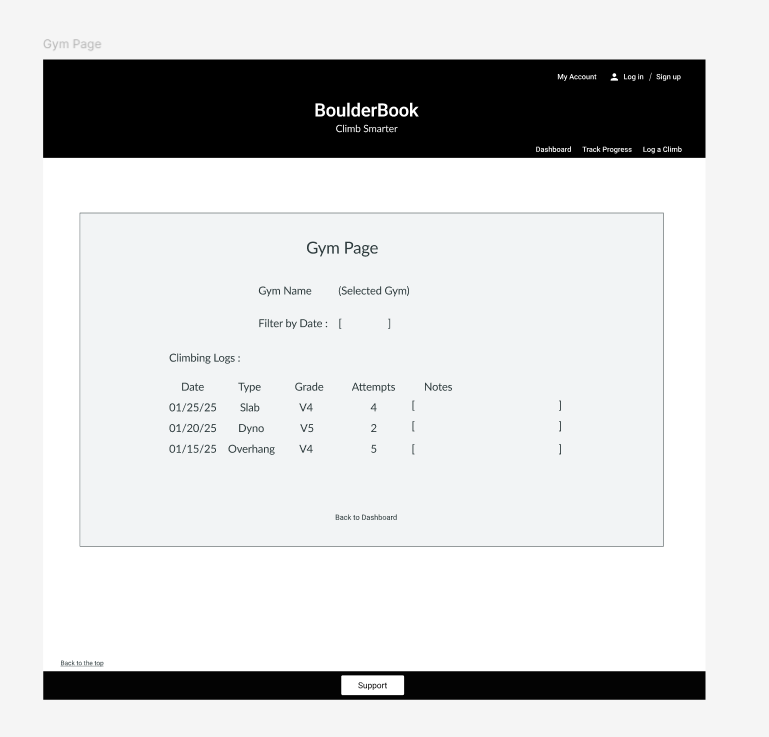
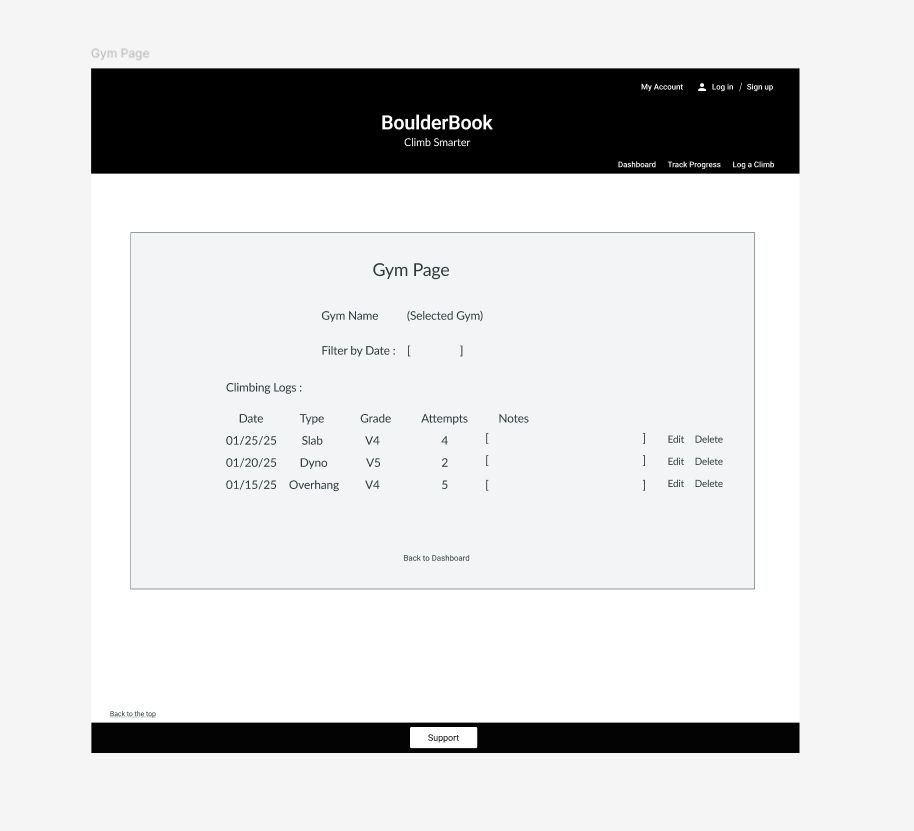
added changes to the screens from the check point 1 review

diff --git a/DesignDocuments/Screens.md b/DesignDocuments/Screens.md
@@ -24,21 +24,15 @@ Users log climb details (date, type, grade, attempts) under a selected gym.
 
 ---
 
+### **Log a Climb (Edit) Page**
+Users edit an existing climb, pre-filled with details from their climbing history.  
+![Log a Climb (Edit)](wireframes/Log-a-Climb-Edit.png)
+
+---
+
 ### **Track Progress Page**
 Shows climbing trends, progress over time, highest climbs, and statistics.  
 ![Track Progress](wireframes/Track-Progress.png)
-
----
-
-### **Login Page**
-Users enter credentials to log in.  
-![Login](wireframes/Login.png)
-
----
-
-### **Sign-Up Page**
-New users register an account.  
-![Sign Up](wireframes/Sign-Up.png)
 
 ---
 
